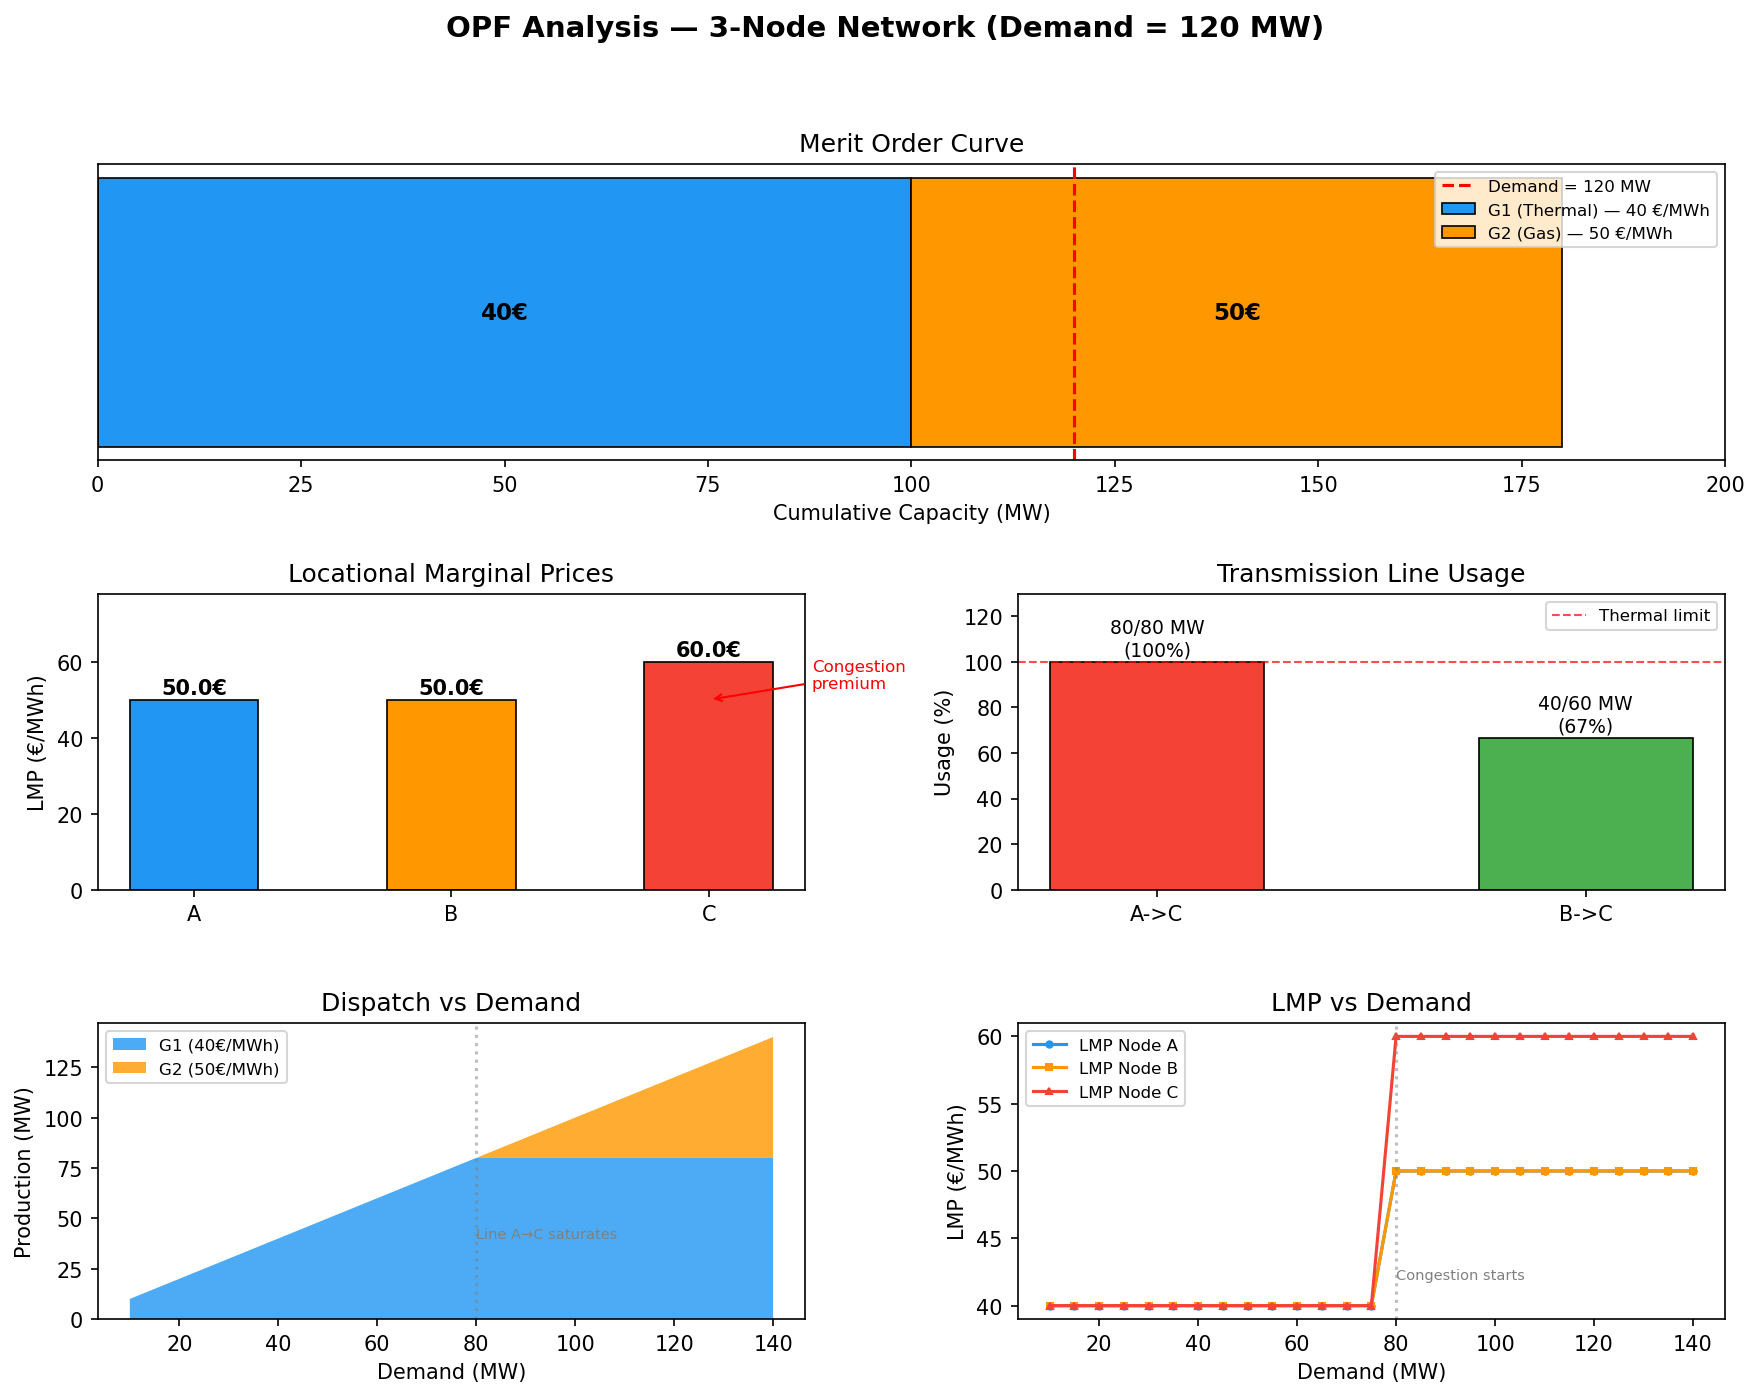
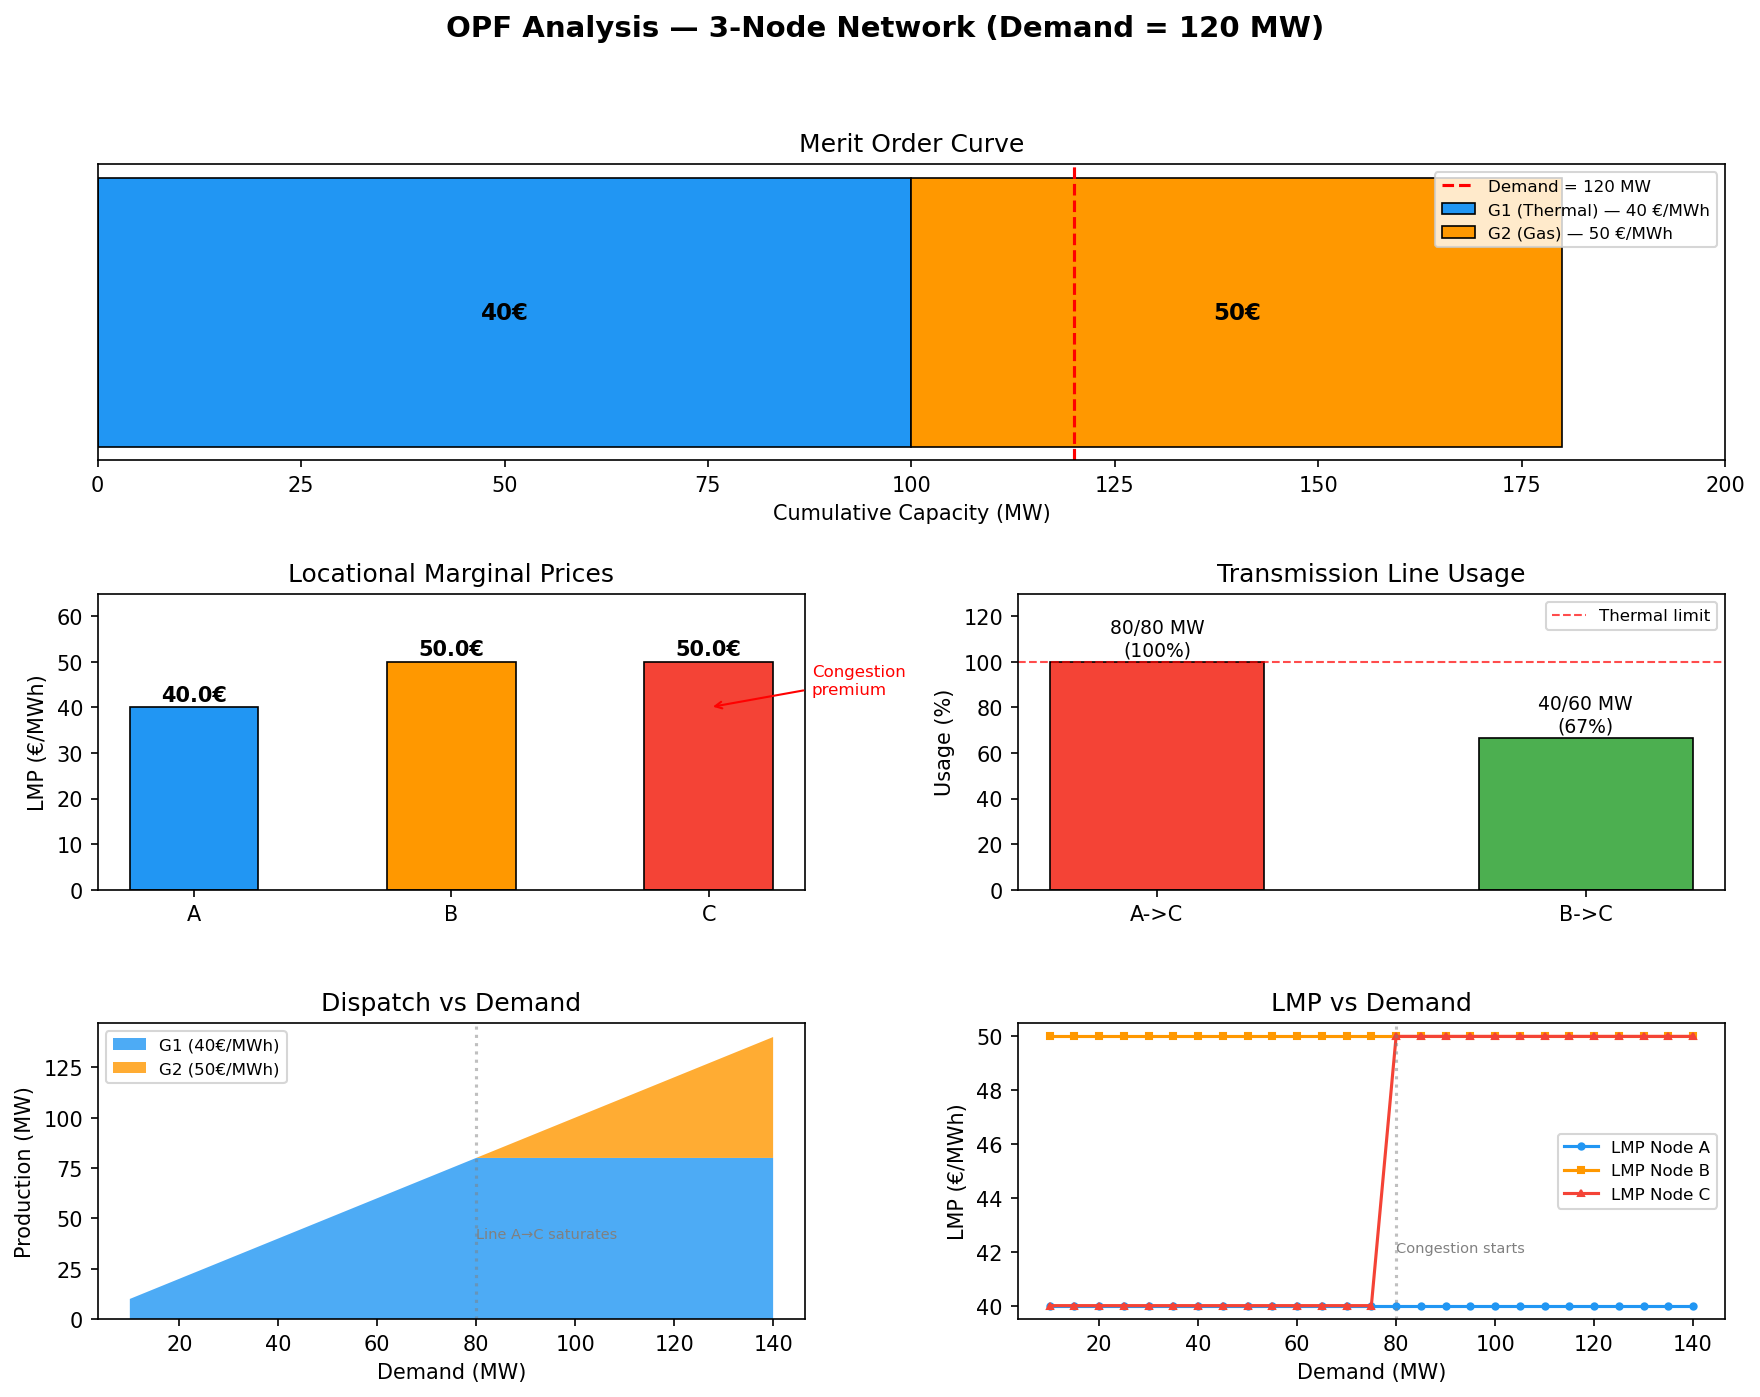
add readme for explanation and results

diff --git a/README.md b/README.md
@@ -1,0 +1,141 @@
+# Optimal Power Flow & Nodal Pricing Simulator
+
+A 3-node power market simulator that solves the economic dispatch problem with transmission constraints and extracts **Locational Marginal Prices (LMP)** using linear programming duality.
+
+## Objective
+
+Electricity prices are not uniform across a power grid. When transmission lines are congested, consumers in constrained areas pay more because cheap generation cannot reach them. This project demonstrates this fundamental market mechanism by:
+
+1. Solving a least-cost **economic dispatch** (minimizing total generation cost)
+2. Enforcing **transmission constraints** (thermal line limits)
+3. Extracting **nodal prices (LMPs)** from the dual variables of the optimization
+
+## Network Topology
+
+```
+  Node A                                    Node C
+  ┌──────────┐     Line A→C (80 MW)      ┌──────────┐
+  │ G1       │─────────────────────────▶ │  Load    │
+  │ 40 €/MWh │                           │ 120 MW   │
+  │ 0-100 MW │                           │          │
+  └──────────┘                           └──────────┘
+                                              ▲
+  Node B                                      │
+  ┌──────────┐     Line B→C (60 MW)           │
+  │ G2       │────────────────────────────────┘
+  │ 50 €/MWh │
+  │ 0-80 MW  │
+  └──────────┘
+```
+
+- **G1 (Thermal)** at Node A: cheapest generator (40 €/MWh), but its output is limited by the 80 MW transmission line to Node C.
+- **G2 (Gas)** at Node B: more expensive (50 €/MWh), connected to Node C via a 60 MW line.
+- **Load** at Node C: 120 MW demand.
+
+## Mathematical Formulation
+
+The problem is formulated as a **Linear Program** with nodal power balance constraints:
+
+```
+Variables: x = [P_G1, P_G2, F_AC, F_BC]
+
+Minimize    40·P_G1 + 50·P_G2
+
+Subject to:
+    P_G1 - F_AC         = 0         (Node A balance → dual = LMP_A)
+    P_G2        - F_BC   = 0         (Node B balance → dual = LMP_B)
+             F_AC + F_BC = Demand    (Node C balance → dual = LMP_C)
+    F_AC ≤ 80                        (Line A→C thermal limit)
+    F_BC ≤ 60                        (Line B→C thermal limit)
+    0 ≤ P_G1 ≤ 100,  0 ≤ P_G2 ≤ 80
+```
+
+The key insight is that **each nodal balance constraint has a dual variable** (shadow price) that directly gives the LMP at that node — the cost of serving one additional MW of demand there.
+
+## Results (Demand = 120 MW)
+
+### Dispatch & Line Usage
+
+| Generator | Node | Production | Cost    |
+|-----------|------|-----------|---------|
+| G1        | A    | 80 MW     | 40 €/MWh |
+| G2        | B    | 40 MW     | 50 €/MWh |
+
+| Line  | Flow   | Capacity | Usage |
+|-------|--------|----------|-------|
+| A→C   | 80 MW  | 80 MW    | 100%  |
+| B→C   | 40 MW  | 60 MW    | 67%   |
+
+G1 is dispatched first (cheapest), but is capped at 80 MW by the transmission line. G2 covers the remaining 40 MW.
+
+### Locational Marginal Prices
+
+| Node | LMP      | Interpretation |
+|------|----------|----------------|
+| A    | 40 €/MWh | Marginal cost = G1 (local generator) |
+| B    | 50 €/MWh | Marginal cost = G2 (local generator) |
+| C    | 50 €/MWh | Marginal unit is G2 (line A→C is full, extra MW must come from G2) |
+
+The **congestion premium** at Node C is LMP_C - LMP_A = **10 €/MWh**. This is the price consumers pay because cheap energy from Node A cannot be fully delivered.
+
+## Analysis
+
+![OPF Analysis](opf_analysis.png)
+
+### Merit Order Curve (top)
+
+Generators are stacked by ascending cost. The demand line (120 MW) cuts into G2's block, making G2 the **marginal unit** that sets the price at Node C.
+
+### LMP Comparison (middle left)
+
+The bar chart shows the price difference across nodes. The 10 €/MWh gap between Node A and Node C is the **congestion rent** — revenue captured by the transmission system operator (TSO).
+
+### Line Usage (middle right)
+
+Line A→C is at 100% capacity (red) — this is the binding constraint that creates the price separation. Line B→C has headroom at 67%.
+
+### Sensitivity Analysis (bottom)
+
+The most insightful charts:
+
+- **Dispatch vs Demand**: below 80 MW, G1 alone serves all demand. Above 80 MW, G1 is capped and G2 ramps up linearly.
+- **LMP vs Demand**: below 80 MW, all nodes see 40 €/MWh (no congestion). At exactly 80 MW, LMP at Node C **jumps** to 50 €/MWh as the line saturates. This step change is the signature of network congestion.
+
+## Economic Interpretation
+
+| Metric | Value |
+|--------|-------|
+| Total generation cost | 5,200 € |
+| Consumer payment (120 MW × 50 €) | 6,000 € |
+| **Congestion rent** | **800 €** |
+
+The congestion rent (800 €) is the difference between what consumers pay and what generators receive. In real markets, this revenue goes to the TSO and can justify transmission expansion investments. If the A→C line capacity were increased to 120 MW, congestion would disappear, LMP_C would drop to 40 €/MWh, and consumers would save 1,200 €.
+
+## Tech Stack
+
+- **Python** with `scipy.optimize.linprog` (HiGHS solver)
+- **NumPy** for matrix formulation
+- **Pandas** for results display
+- **Matplotlib** for visualization
+
+## Usage
+
+```bash
+pip install -r requirements.txt
+
+# Run the dispatch solver
+python main.py
+
+# Generate analysis graphs
+python analysis.py
+```
+
+## Project Structure
+
+```
+├── opf_engine.py      # LP solver with nodal balance formulation
+├── main.py            # Runs the 120 MW scenario and prints results
+├── analysis.py        # Generates the 4-panel analysis figure
+├── requirements.txt   # Dependencies
+└── PROC.md            # Problem specification
+```
